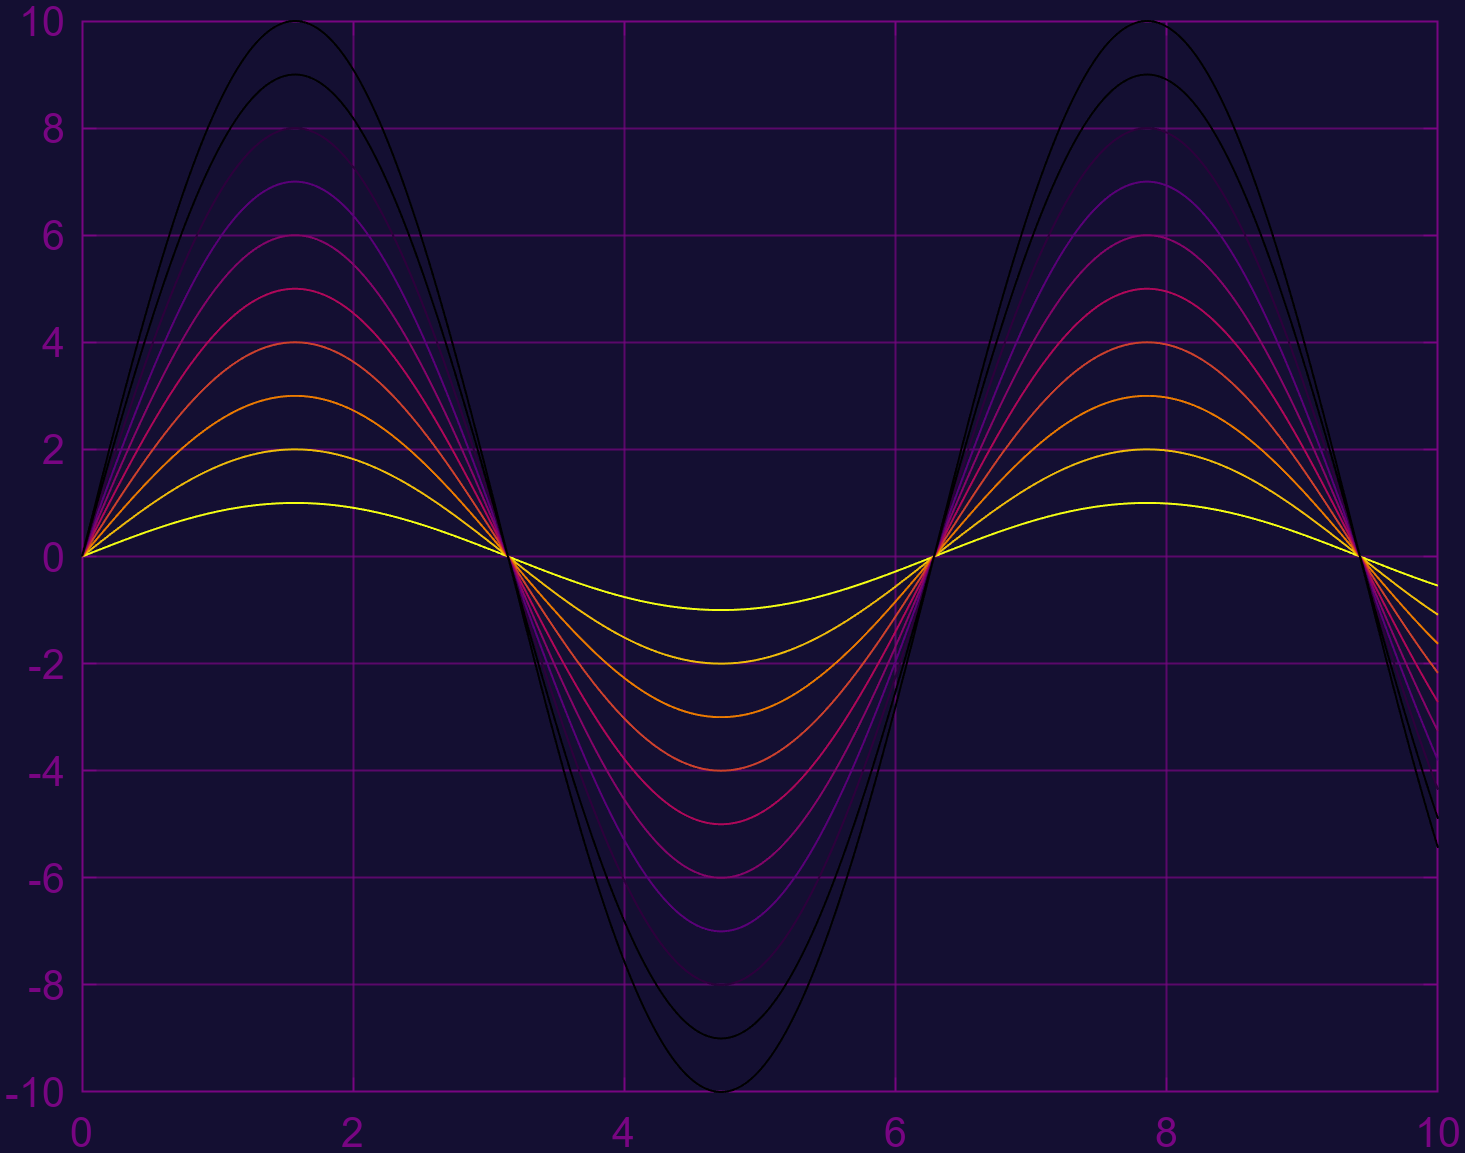
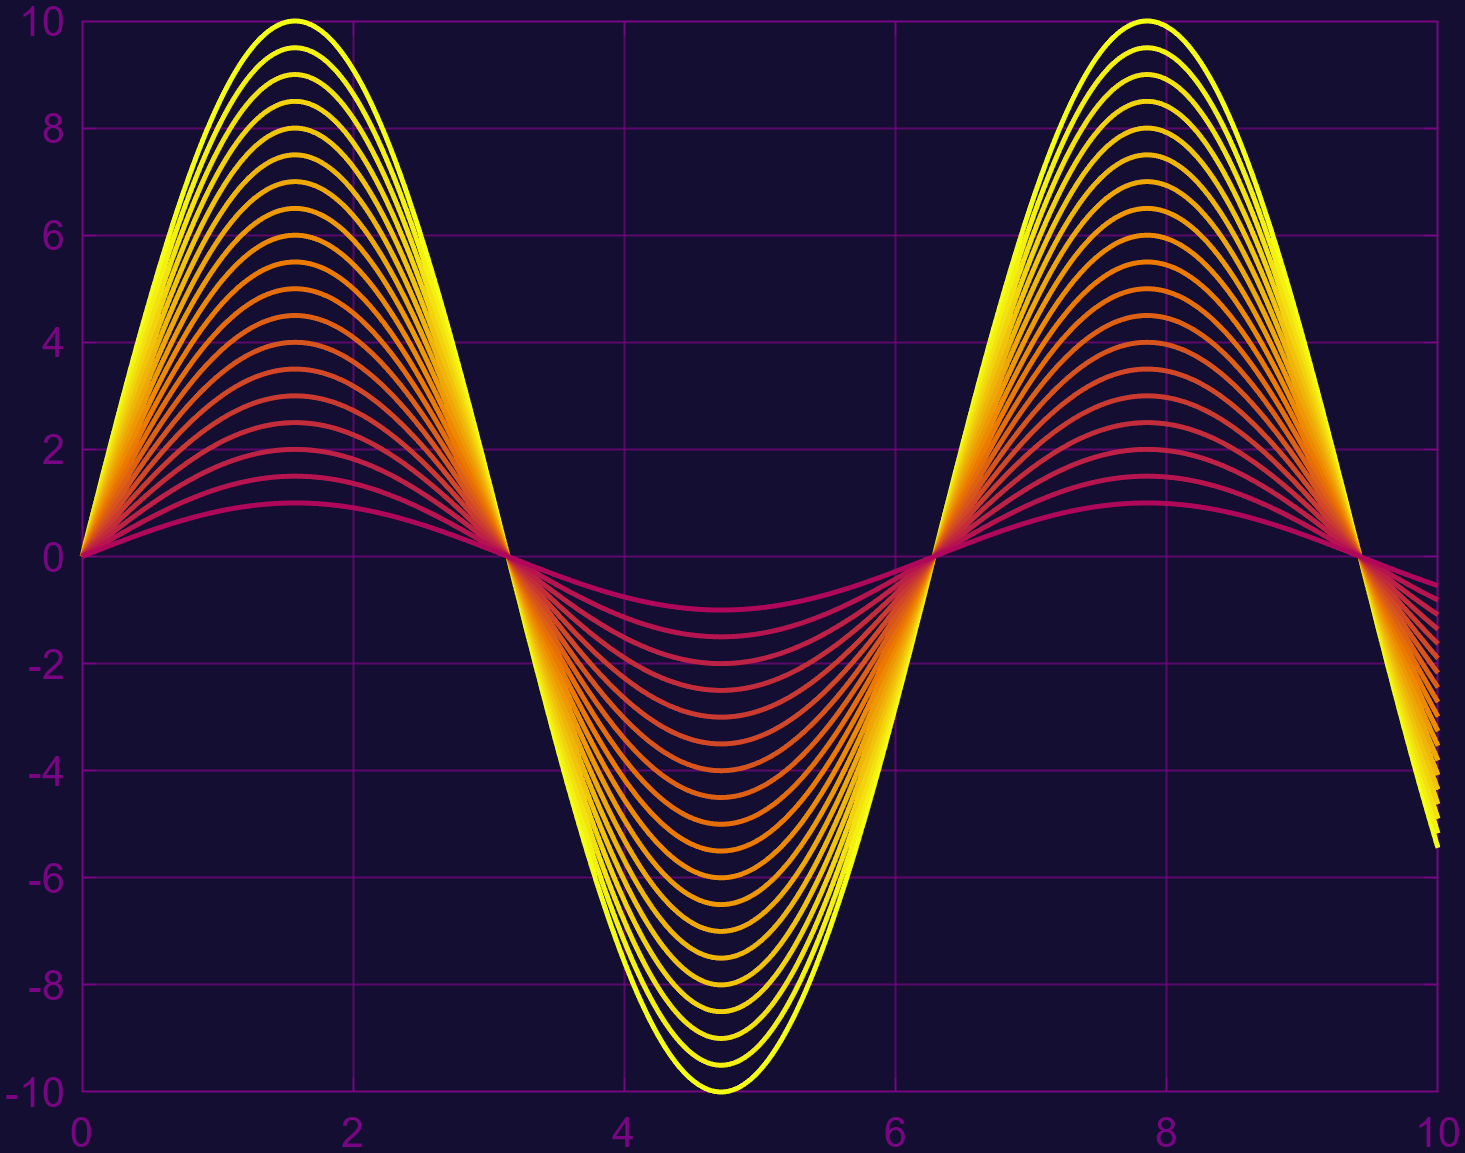
updated documentation

Changed region(s): [[0.0614, 0.0, 0.9829, 0.9679]]

diff --git a/Documentation/documentation_script.m b/Documentation/documentation_script.m
@@ -1,17 +1,19 @@
-mypath = erase(mfilename("fullpath"), "\documentation");
+mypath = erase(mfilename("fullpath"), "documentation_script");
 
 myaxes = axes();
-plot(0:0.01:10, (1:10)'*sin(0:0.01:10))
+plot(0:0.01:10, (10:-0.5:1)'*sin(0:0.01:10), "LineWidth",1.2)
 saveplot(mypath+"ouch_my_eyes_1.png", myaxes);
 
 fireflies();
 saveplot(mypath+"fireflies_1.png", myaxes);
 
-fireflies("ColorSamples", 2);
+fireflies("ColorSamples", 5);
 saveplot(mypath+"fireflies_ColorSamples_1.png", myaxes);
+cla
 
+figure()
 myaxes2 = axes();
-plot(0:0.01:10, (1:10)'*sin(0:0.01:10))
+plot(0:0.01:10, (10:-0.5:1)'*sin(0:0.01:10), "LineWidth",1.2)
 
 borealis();
 saveplot(mypath+"borealis_1.png", myaxes2);
@@ -27,7 +29,7 @@ sangbok();
 saveplot(mypath+"sangbok_1.png", myaxes2);
 
 
-
+cla
 figure()
 myaxes3 = axes();
 
@@ -36,3 +38,16 @@ fireflies();
 saveplot(mypath+"fireflies_membrane_1.png", myaxes3);
 
 
+myapp = rear_axel_dashboard;
+fireflies;
+
+
+
+figure()
+myplot1 = subplot(1,2,1);
+plot(0:0.1:10, sin(0:0.1:10));
+myplot2 = subplot(1,2,2);
+plot(0:0.1:10, cos(0:0.1:10));
+
+borealis( "Figure", myplot2)
+fireflies("Figure", myplot1)

diff --git a/colortheme_process_inputs_subroutine.m b/colortheme_process_inputs_subroutine.m
@@ -29,4 +29,6 @@ if exist("graphics", "var") == false
 end
 if number_of_drawings < 5; number_of_drawings = 5;end
 
+if exist("number_of_hues", "var") == false
 number_of_hues = number_of_drawings;
+end

diff --git a/README.md b/README.md
@@ -11,7 +11,7 @@ Without colortheme:
 my_plot = plot(0:0.01:10, (1:10)'*sin(0:0.01:10))
 ```
 
-![](Documentation\ouch_my_eyes_2.png)
+![](Documentation\ouch_my_eyes_1.png)
 
 
 
@@ -26,7 +26,7 @@ fireflies()
 ```
 
 
-![image_1.png](Documentation\fireflies_2.png)
+![image_1.png](Documentation\fireflies_1.png)
 
 borealis:
 
@@ -71,7 +71,7 @@ fireflies();
 
   
 
-![](Documentation/3dplot_sample.png)
+![](Documentation/fireflies_membrane_1.png)
 
 # Used together with UI-figures and MATLAB-appdesigner:
 
@@ -82,7 +82,7 @@ fireflies();
 
 ```
 
-![image_6.png](https://github.com/spiggen/MATLAB_color_themes/blob/master/Documentation/Sk%C3%A4rmbild%202023-10-06%20174034.png)
+![](Documentation\fireflies_appdesigner.png)
 
   
   
@@ -101,7 +101,7 @@ fireflies("Figure", myplot1)
   
   
 
-![image_7.png](https://github.com/spiggen/MATLAB_color_themes/blob/master/Documentation/Sk%C3%A4rmbild%202023-10-06%20174212.png)
+![](Documentation\fireflies_borealis_subplot.png)
 
   
   
@@ -129,3 +129,6 @@ colortheme_assign_colors_subroutine
 
 end
 ```
+
+# Gallery
+
